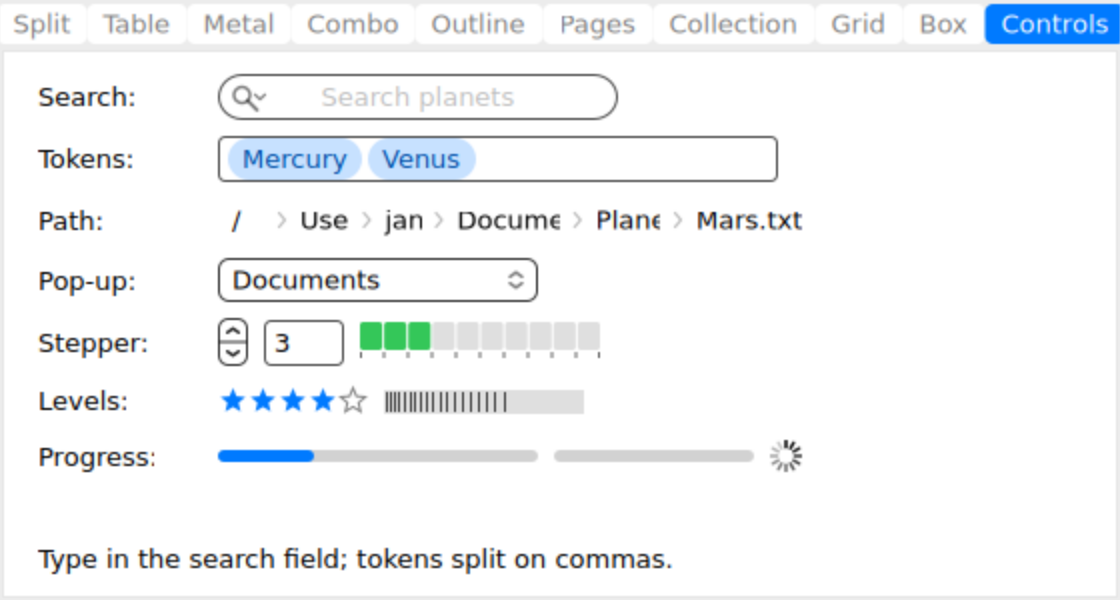
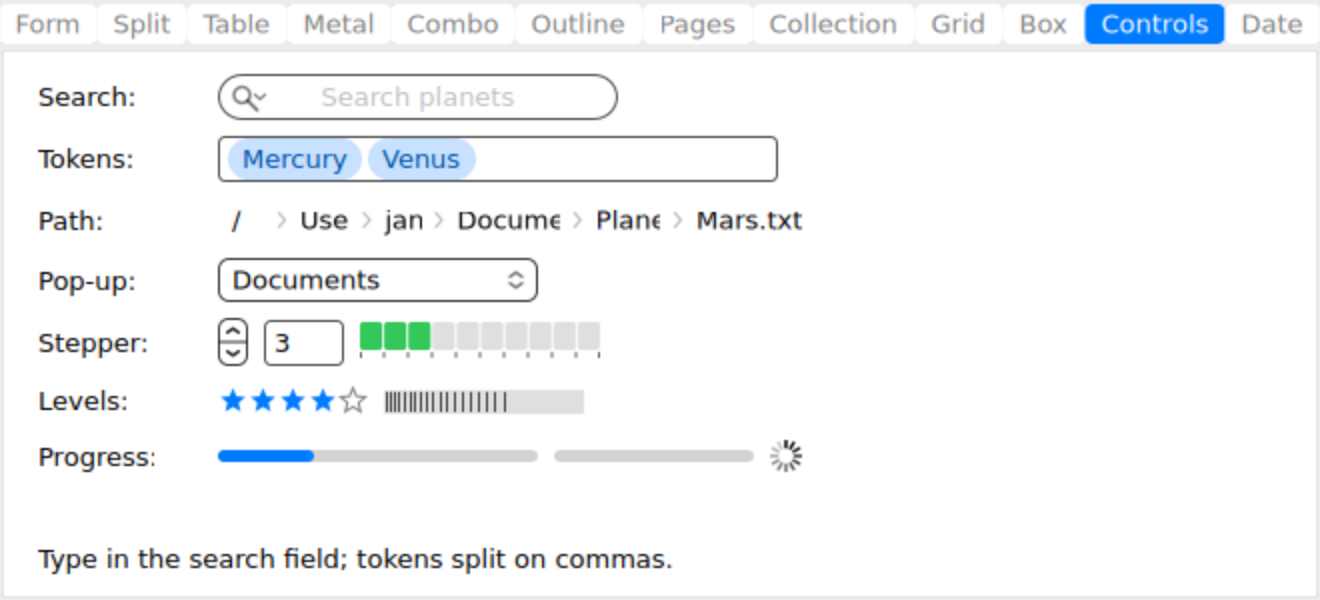
Layout Demo: 660 points wide for its twelve tabs; Controls and Date renders at that width

diff --git a/Examples/HelloWindow/main.swift b/Examples/HelloWindow/main.swift
@@ -561,7 +561,7 @@ final class AppDelegate: NSObject, NSApplicationDelegate, NSWindowDelegate, NSSe
         tabs.addChild(BoxDemoViewController())
         tabs.addChild(ControlsDemoViewController())
         tabs.addChild(DateDemoViewController())
-        tabs.view.frame = NSRect(x: 0, y: 0, width: 560, height: 300)   // wide enough for the twelve tabs
+        tabs.view.frame = NSRect(x: 0, y: 0, width: 660, height: 300)   // wide enough for the twelve tabs
         let window = NSWindow(contentViewController: tabs)
         window.title = "Layout Demo"
         if layerBacked { window.contentView?.wantsLayer = true }
